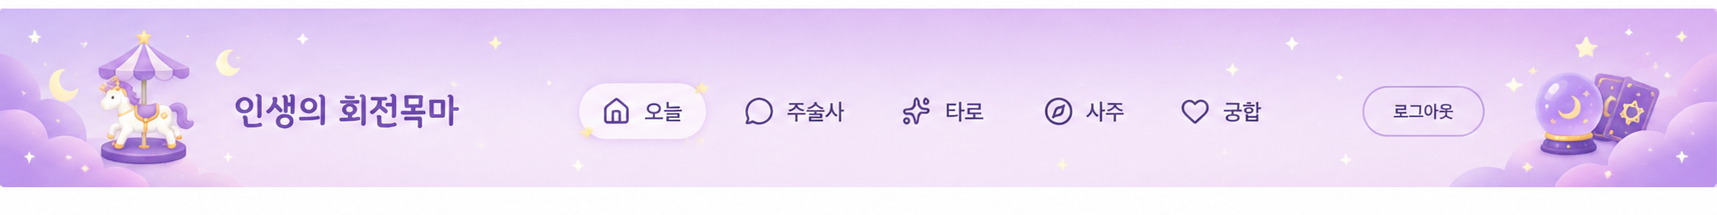
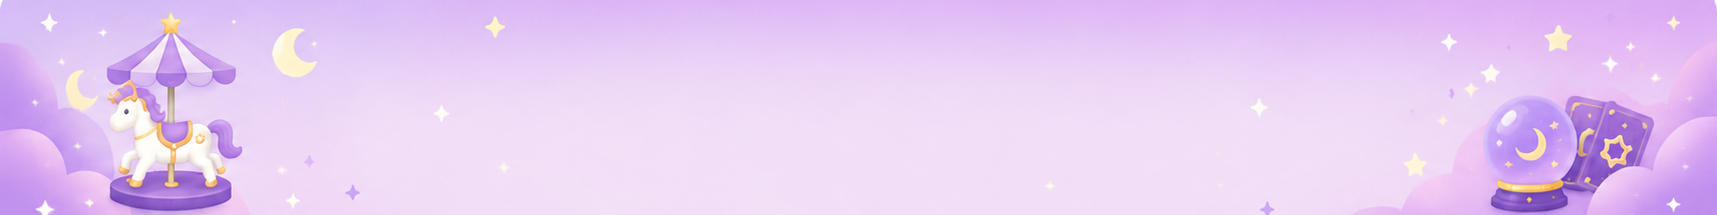
feat: 헤더를 텍스트 없는 깨끗한 일러스트 배경으로 통째 교체
- 사용자 신규 이미지(회전목마_바화면2.png) 헤더 영역 크롭
- 이전 좌·우 분할 일러스트 파일 제거
- header element 자체에 backgroundImage cover 로 깔아 가운데 박스 문제 해결
- 우리 메뉴만 그 위에 자연스럽게 배치

diff --git a/src/app/(dashboard)/layout.tsx b/src/app/(dashboard)/layout.tsx
@@ -1,4 +1,3 @@
-import Image from "next/image";
 import Link from "next/link";
 
 import { Button } from "@/components/ui/button";
@@ -18,42 +17,14 @@ export default async function DashboardLayout({
   return (
     <div className="flex min-h-screen flex-col">
       <header
-        className="sticky top-0 z-40 overflow-hidden border-b border-primary/20 shadow-sm"
+        className="sticky top-0 z-40 border-b border-primary/20 shadow-sm"
         style={{
-          background:
-            "linear-gradient(to bottom, oklch(0.86 0.06 295), oklch(0.82 0.08 295) 50%, oklch(0.76 0.10 295))",
+          backgroundImage: "url(/header-bg.png)",
+          backgroundSize: "cover",
+          backgroundPosition: "center",
+          backgroundRepeat: "no-repeat",
         }}
       >
-        {/* 좌측 일러스트 (회전목마) */}
-        <div
-          aria-hidden
-          className="pointer-events-none absolute left-0 top-1/2 -translate-y-1/2"
-        >
-          <Image
-            src="/header-left.png"
-            alt=""
-            width={280}
-            height={215}
-            priority
-            className="h-20 w-auto sm:h-24 md:h-28"
-          />
-        </div>
-
-        {/* 우측 일러스트 (수정구슬+카드) */}
-        <div
-          aria-hidden
-          className="pointer-events-none absolute right-0 top-1/2 -translate-y-1/2 hidden sm:block"
-        >
-          <Image
-            src="/header-right.png"
-            alt=""
-            width={280}
-            height={215}
-            priority
-            className="h-20 w-auto sm:h-24 md:h-28"
-          />
-        </div>
-
         <div className="relative mx-auto flex h-16 w-full max-w-5xl items-center justify-between gap-2 pl-20 pr-2 sm:h-20 sm:pl-28 sm:pr-28 md:pl-32 md:pr-32">
           <Link
             href={ROUTES.today}
@@ -71,7 +42,7 @@ export default async function DashboardLayout({
                   <Link
                     key={item.href}
                     href={item.href}
-                    className="flex items-center gap-1.5 rounded-full px-3 py-1.5 text-sm font-medium text-[#5b3a8a] hover:bg-white/40 hover:text-[#3a2554] transition-colors"
+                    className="flex items-center gap-1.5 rounded-full px-3 py-1.5 text-sm font-medium text-[#5b3a8a] hover:bg-white/50 hover:text-[#3a2554] transition-colors"
                   >
                     <Icon className="h-4 w-4" aria-hidden />
                     {item.label}
@@ -85,7 +56,7 @@ export default async function DashboardLayout({
               type="submit"
               variant="ghost"
               size="sm"
-              className="rounded-full bg-white/50 text-[#5b3a8a] hover:bg-white/70 hover:text-[#3a2554] backdrop-blur-sm shadow-sm"
+              className="rounded-full bg-white/60 text-[#5b3a8a] hover:bg-white/80 hover:text-[#3a2554] backdrop-blur-sm shadow-sm"
             >
               로그아웃
             </Button>
